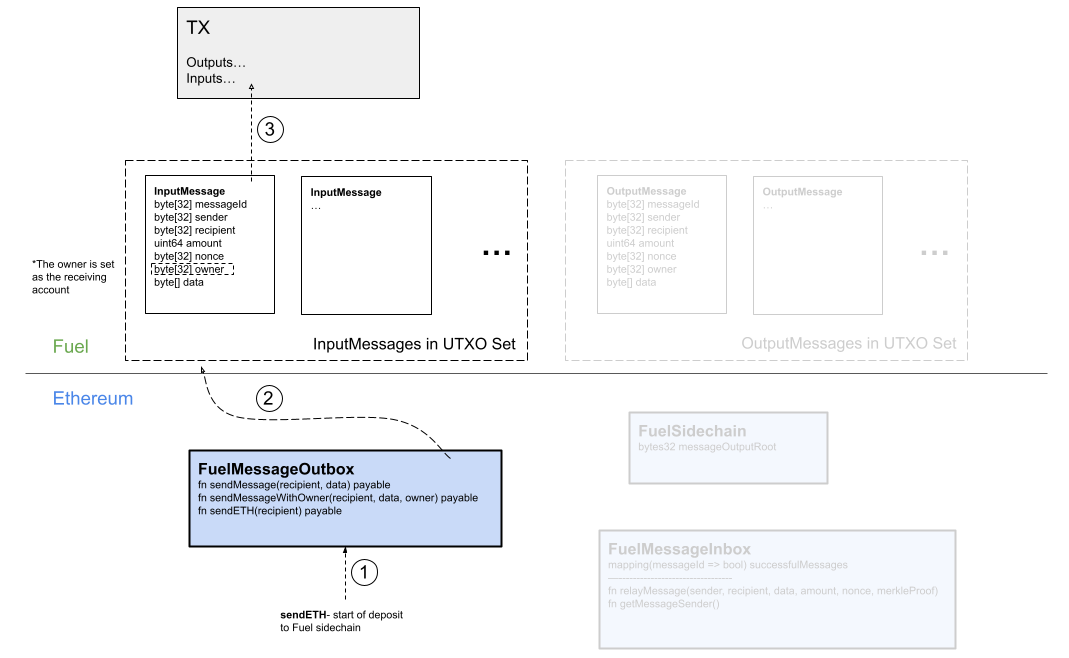
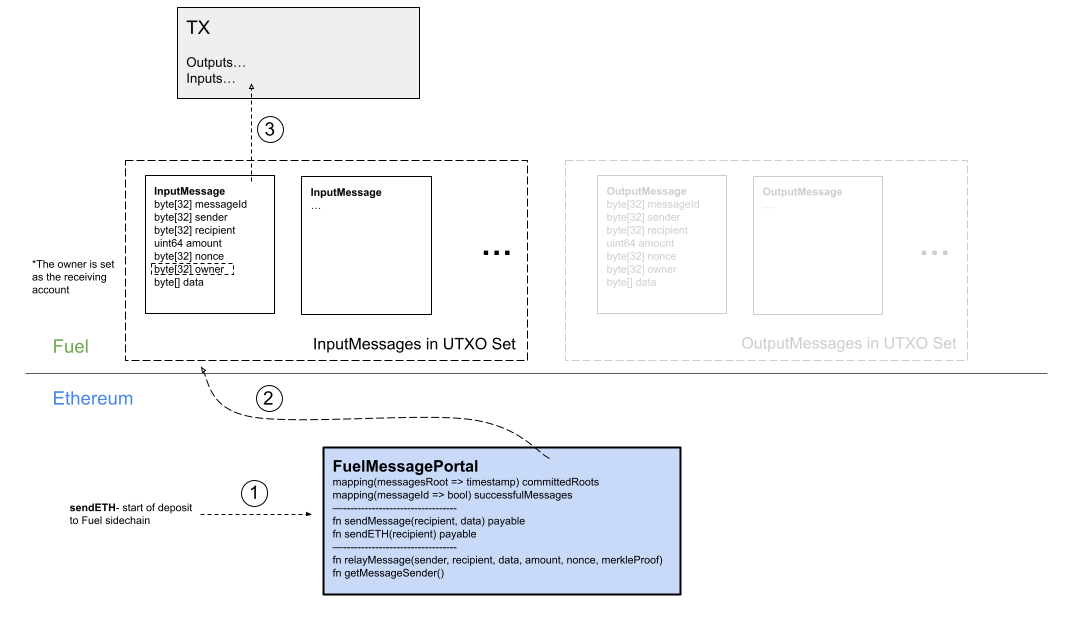
Updated docs with new nomenclature

diff --git a/docs/design_docs.md b/docs/design_docs.md
@@ -16,18 +16,17 @@ The ETH bridge facilitates the transfer of ETH from Ethereum to be represented a
 
 ### ETH Bridge Deposit
 
-1. User starts a deposit by calling `sendETH` on `FuelMessageOutbox` which accepts a value that gets custodied by `FuelMessageInbox` while bridged
-1. The `FuelMessageOutbox` creates a message to be relayed later on Fuel by only the designated recipient
-1. User can now spend the amount value in the input message like any other input
+1. User starts a deposit by calling `sendETH` on `FuelMessagePortal` which accepts a value of ETH that gets custodied by the `FuelMessagePortal` while bridged
+1. The Fuel client sees an outgoing message event emitted on the `FuelMessagePortal` and adds a corresponding `InputMessage` to the UTXO set with the designated owner
+1. The owner can now spend the amount value in the input message like any other input
 
 ![ETH Deposit Diagram](/docs/imgs/FuelMessagingETHDeposit.png)
 
 ### ETH Bridge Withdrawal
 
-1. User starts a withdrawal by creating a transaction that outputs a message output with a specific amount of ETH
-1. `OutputMessage` is noted on L1 by including the messagId in a merkle root in the state header committed to L1
-1. After any necessary finalization period, the user calls to the `FuelMessageInbox` with a merkle proof of the previous sent message
-1. The `FuelMessageInbox` verifies the given merkle proof and send the ETH to the designated message recipient
+1. User starts a withdrawal by creating a transaction that outputs an `OutputMessage` with a specific amount of ETH
+1. All `OutputMessages` are committed to L1 via a merkle tree of all `OutputMessage` messageIds by a designated committer (either a multisig or future consensus contract)
+1. After a finalization period, the user calls to the `FuelMessagePortal` with a merkle proof of the previous sent message which then sends the ETH to the message recipient
 
 ![ETH Withdrawal Diagram](/docs/imgs/FuelMessagingETHWithdraw.png)
 
@@ -37,23 +36,22 @@ The ERC-20 bridge facilitates the transfer of ERC-20 tokens from Ethereum to be 
 
 ### ERC-20 Bridge Deposit
 
-1. User starts a deposit by calling deposit (has already approved token transfer to `L1ERC20Gateway`)
-1. `L1ERC20Gateway` transfers tokens to itself to custody while bridged
-1. `L1ERC20Gateway` creates a message in the `FuelMessageOutbox` to be relayed on Fuel with the `MessageToFungibleTokenPredicate` so that anyone can spend the `InputMessage` on a user's behalf but with guarantees that the transaction is built as it’s supposed to
-1. Client sees the message on L1 via event logs
-1. A transaction is built and submitted by either the user or some relayer that meets the requirements of the `MessageToFungibleTokenPredicate`
-1. A single call is made from the transaction script to the intended recipient Fuel token contract. This function verifies the sender and predicate owner of the `InputMessage`, parses the data from the `InputMessage` data field and mints the appropriate amount of tokens
+1. User starts a deposit by calling the deposit function on the `L1ERC20Gateway` (has already approved token transfer to `L1ERC20Gateway`)
+1. The `L1ERC20Gateway` transfers tokens to itself to custody while they are bridged
+1. The `L1ERC20Gateway` creates a message in the `FuelMessagePortal` to be relayed on Fuel with the `MessageToFungibleTokenPredicate` so that anyone can spend the `InputMessage` on a user's behalf but with guarantees that the transaction is built as it’s supposed to
+1. The Fuel client sees an outgoing message event emitted on the `FuelMessagePortal` and adds a corresponding `InputMessage` to the UTXO set with the designated owner
+1. A transaction is built and submitted by either the user or a relayer service that meets the requirements of the `MessageToFungibleTokenPredicate`
+1. A single call is made from the transaction script to the intended recipient Fuel token contract. This function verifies the sender and predicate owner of the `InputMessage`, parses the data from the `InputMessage` data field and mints the appropriate amount of tokens to the designated recipient
 
 ![ERC20 Deposit Diagram](/docs/imgs/FuelMessagingERC20Deposit.png)
 
 ### ERC-20 Bridge Withdrawal
 
 1. User starts a withdrawal by calling the `FuelMyToken` contract sending some coins to withdraw along with it
-1. `FuelMyToken` contract looks to see what coins it was sent, burns them and then creates a `OutputMessage` via opcode
-1. `OutputMessage` is noted on L1 by including the messagId in a merkle root in the state header committed to L1
-1. After any necessary finalization period, the user calls to the `FuelMessageInbox` with a merkle proof of the previous sent message
-1. The `FuelMessageInbox` verifies the given merkle proof and makes the message call to the `L1ERC20Gatewa`y specified in the message
-1. The `L1ERC20Gateway` verifies it’s being called by the `FuelMessageInbox` and releases the specified amount of tokens to the specified address
+1. The `FuelMyToken` contract looks to see what coins it was sent, burns them and then creates a `OutputMessage` via the `SMO` opcode
+1. All `OutputMessages` are committed to L1 via a merkle tree of all `OutputMessage` messageIds by a designated committer (either a multisig or future consensus contract)
+1. After a finalization period, the user calls to the `FuelMessagePortal` with a merkle proof of the previous sent message which then calls to the `L1ERC20Gateway` with the abi specified in the message data
+1. The `L1ERC20Gateway` verifies it’s being called by the `FuelMessagePortal` and releases the specified amount of tokens to the specified address
 
 ![ERC20 Withdrawal Diagram](/docs/imgs/FuelMessagingERC20Withdraw.png)
 
@@ -61,10 +59,10 @@ The ERC-20 bridge facilitates the transfer of ERC-20 tokens from Ethereum to be 
 
 In order to prevent messages getting lost during generic messaging from L1 to Fuel, developers should follow the following standard practice utilizing common libraries.
 
-1. Either a contract or EOA calls `sendMessage` on the `FuelMessageOutbox` that creates a message to be relayed on Fuel with the `MessageToContractPredicate` so that anyone can spend the `InputMessage` on a user's behalf but with guarantees that the transaction is built as it’s supposed to
-1. Client sees the message on L1 via event logs
+1. Either a contract or EOA calls `sendMessage` on the `FuelMessagePortal` that creates a message to be relayed on Fuel with the `MessageToContractPredicate` so that anyone can spend the `InputMessage` on a user's behalf but with guarantees that the transaction is built as it’s supposed to
+1. The Fuel client sees an outgoing message event emitted on the `FuelMessagePortal` and adds a corresponding `InputMessage` to the UTXO set with the designated predicate owner
 1. A transaction is built and submitted by either the user or some relayer that meets the requirements of the `MessageToContractPredicate`
 1. The transaction script sends any amount on the message to the recipient contract and calls `processMessage` on the recipient Fuel token contract
-1. This contract extends the standard `MessageRetryable` code which checks if the transaction includes the appropriate variable outputs otherwise the `messageId` gets placed in storage to be retried in a later transaction
+1. This contract extends the standard `MessageRetryable` code which checks if the transaction includes the appropriate variable outputs exist on the transaction (if any) otherwise the `messageId` gets placed in storage to be retried in a later transaction
 
 ![Retryable Messages Diagram](/docs/imgs/FuelMessagingRetryableMessages.png)
